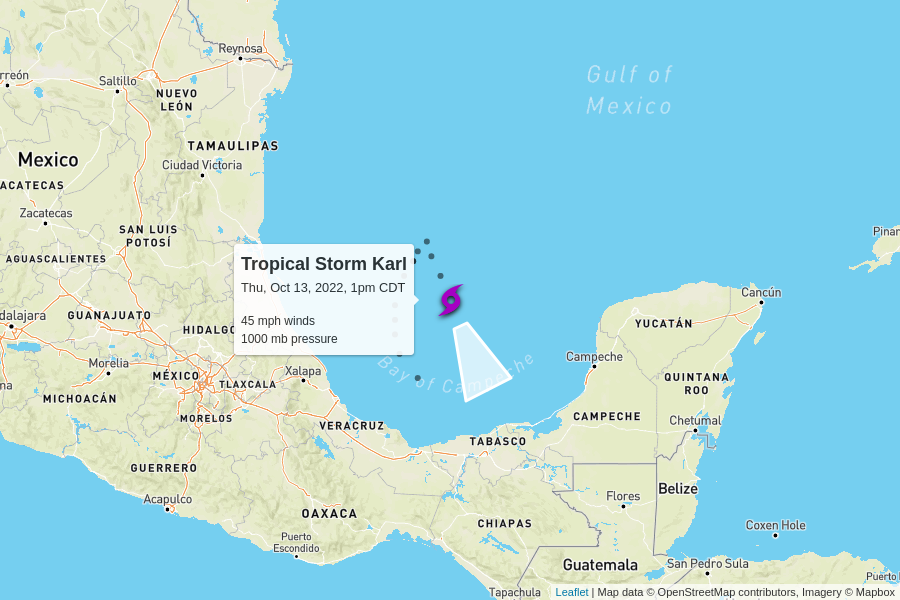
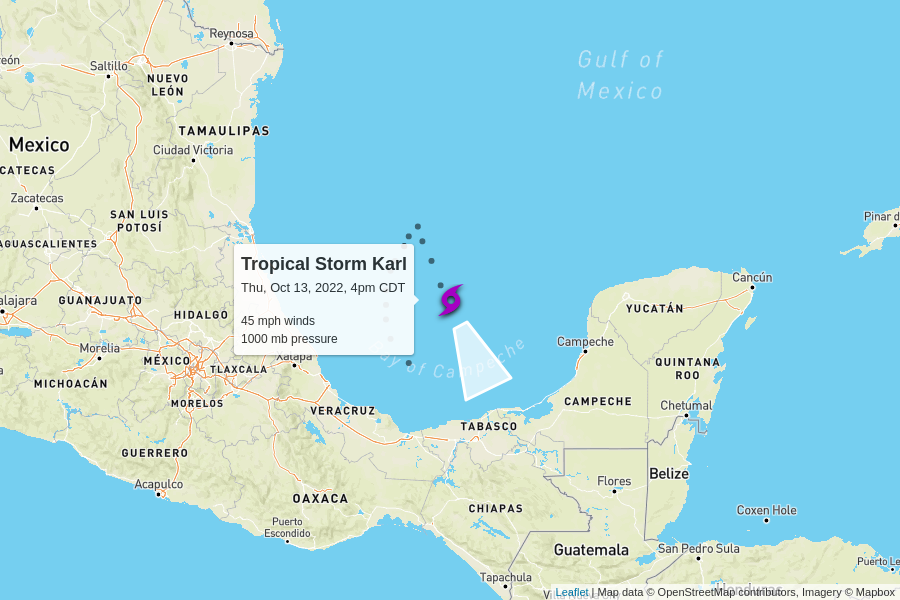
automatic update

diff --git a/docs/index.html b/docs/index.html
@@ -100,7 +100,7 @@
         <td colspan="6" class="storm category-0" >
           <h2>
             Tropical Storm Karl
-            <p class="updated">last updated <span data-time>2022-10-13T18:00:00.000Z</span></p>
+            <p class="updated">last updated <span data-time>2022-10-13T21:00:00.000Z</span></p>
           </h2>
         </td>
       </tr>
@@ -118,7 +118,7 @@
         <td>45 mph</td>
         <td>1000 mb</td>
         <td>
-          6 mph to the south-southeast
+          7 mph to the south-southeast
           <br/>
           <span style="display: inline-block; font-size: 1.5em; transform: rotate(155deg);">↑</span>
         </td>
